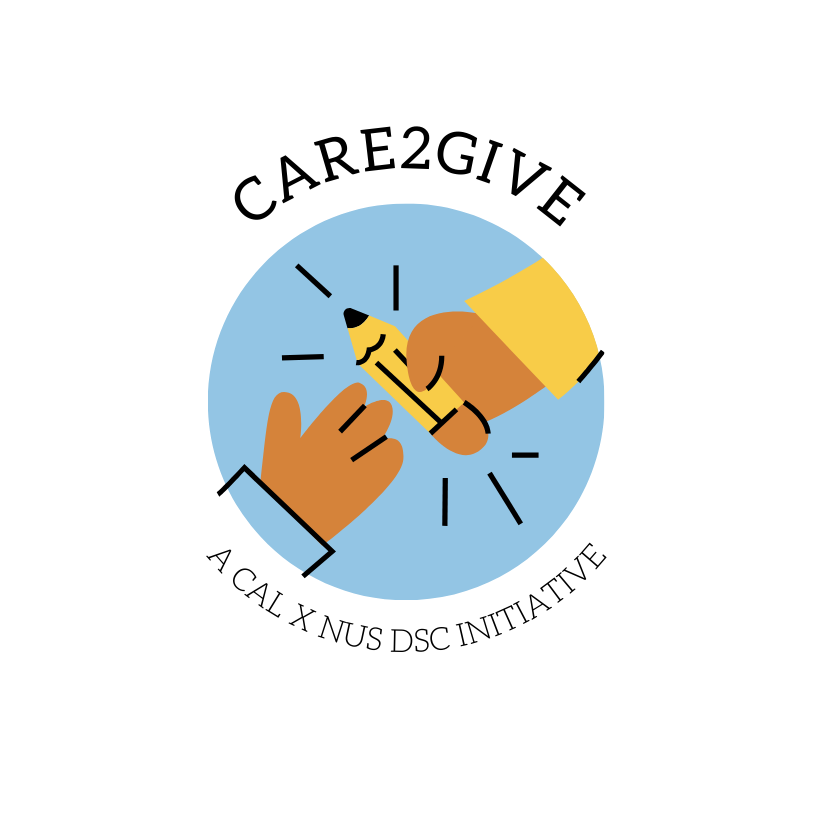
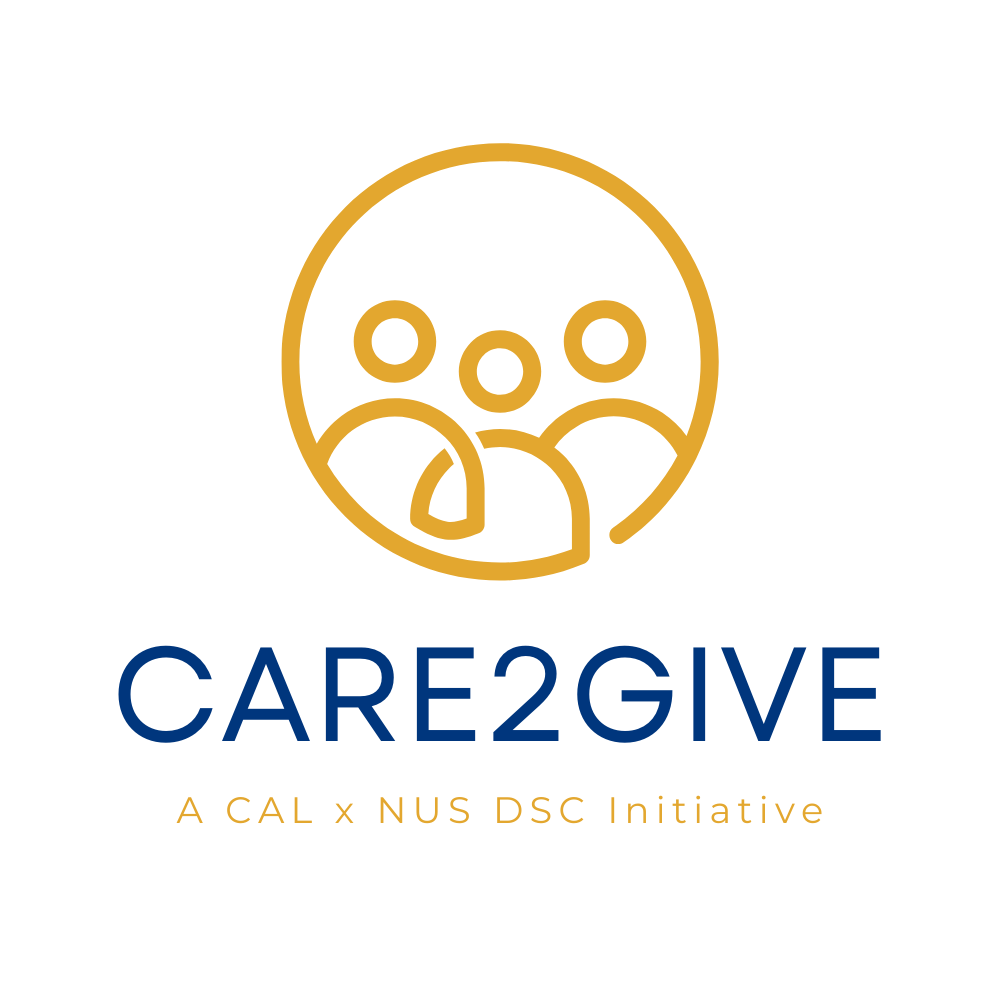
ui fixes

Changed region(s): [[0.0923, 0.123, 0.8918, 0.8303], [0.1845, 0.7995, 0.3075, 0.8303]]

diff --git a/src/components/navbar.tsx b/src/components/navbar.tsx
@@ -23,7 +23,7 @@ const NavBar = ({ title, titleIsCenterAligned = false }: NavBarProps) => {
 
   if (!items) return null;
   return (
-    <nav className="w-full flex justify-between items-center px-6 py-4 fixed bg-white z-50">
+    <nav className="w-full flex justify-between items-center px-4 py-2 fixed bg-white z-50">
       {!titleIsCenterAligned && (
         <Button
           variant="ghost"
@@ -39,21 +39,22 @@ const NavBar = ({ title, titleIsCenterAligned = false }: NavBarProps) => {
         {router.pathname === "/" && (
           <>
             <Image
-              src="./navbar/logo.svg"
+              src="/navbar/logo.png"
               alt="Caregivers Alliance Logo"
-              height={32}
-              width={32}
+              className="max-h-14 max-w-14"
+              height={128}
+              width={128}
             />
             <Image
               src="/navbar/caldsc.png"
-              alt="Caregivers Alliance Logo"
+              alt="C2G logo"
               className="max-h-12 max-w-12"
               height={64}
               width={64}
             />
           </>
         )}
-        <h1 className="text-2xl">{title}</h1>
+        <h1 className="text-xl">{title}</h1>
       </div>
       <Link href="/gift-basket">
         <Button variant="ghost" size="icon">

diff --git a/src/pages/index.tsx b/src/pages/index.tsx
@@ -10,8 +10,8 @@ export default function Home({
 }: InferGetServerSidePropsType<typeof getServerSideProps>) {
   return (
     <>
-      <NavBar title="Caregivers Alliance Limited" titleIsCenterAligned />
-      <main className="flex min-h-screen flex-col items-center justify-between pt-[72px]">
+      <NavBar title="Care2Give" titleIsCenterAligned />
+      <main className="flex min-h-screen flex-col items-center justify-between pt-[64px]">
         <Introduction />
         <Featured campaigns={campaigns} />
         <Footer />
